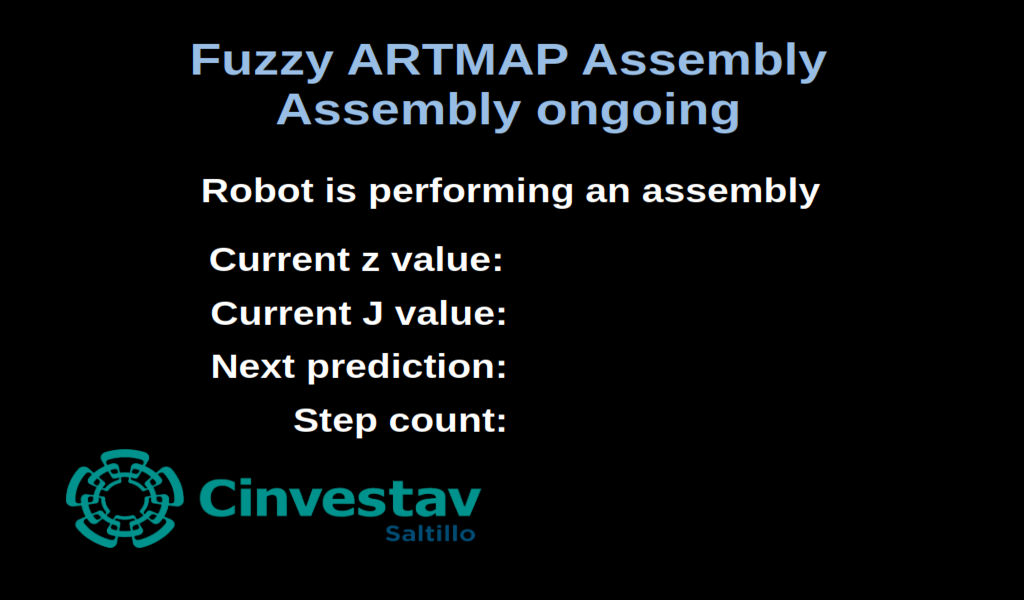
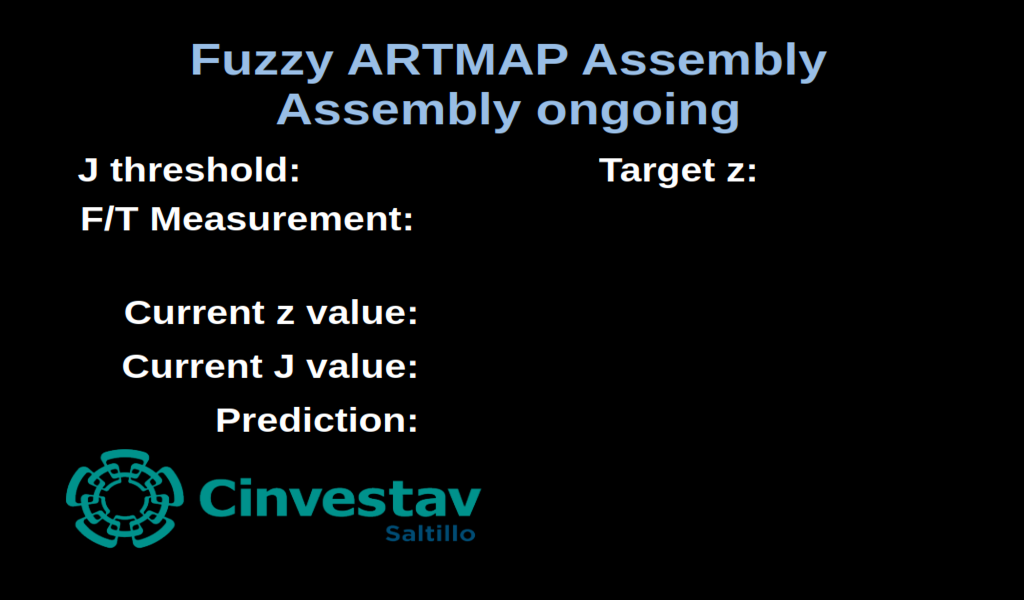
artmap assembly in real time updated to display assembly real time values, cleanup done, ongoing display image updated

diff --git a/perception_modules/tactile/scripts/artmap_assembly_rt.py b/perception_modules/tactile/scripts/artmap_assembly_rt.py
@@ -13,11 +13,16 @@ Example sawyer moves above assembly, and starts moving downward in z by 0.001mm 
 import sys
 import os
 import subprocess
+import atexit
 import rospy
 import rospkg
 import cv2
 import cv_bridge
 from sensor_msgs.msg import Image
+from std_msgs.msg import (
+    Float32,
+    Int32
+)
 import time
 import time
 import math
@@ -39,6 +44,10 @@ from geometry_msgs.msg import (
 from tf.transformations import (
     quaternion_from_euler
 )
+
+
+# List to keep track of all running subprocesses
+all_processes = []
 
 #Global variables for force and torque
 #Need to be global to be updated by call back function in subscriber
@@ -76,7 +85,7 @@ def force_moment_factor(S=0.6):
 def obtain_move_prediction(prediction):
     
     #Prediction movement step in rotation and translation
-    rot_step = 0.0174533*3.0 #0.5 deg
+    rot_step = 0.0174533*4.0 #0.5 deg
     tran_step = 0.01 #1mm
     
     #Z- movement not used
@@ -332,14 +341,26 @@ def send_ik_movement(move_pred,robot,ik_step,move_euler,orientation=False):
     else:
         rospy.logerr("No Joint Angles provided for move_to_joint_positions. Staying put.")
 
+def cleanup_processes():
+    print("Running cleanup function...")
+    for p in all_processes:
+        print("Terminating process %s...", p.pid)
+        p.kill() # Force termination (SIGKILL on Posix)
+        p.wait() # Ensure the process is reaped to avoid zombies # Request a graceful exit (SIGTERM on Posix)
+
+# Register the cleanup function to run on exit
+atexit.register(cleanup_processes)
+
 #Assembly function
 def assembly_cycle(artmap, train_file, robot, head_display, image_pub, train_entry=False, rho=0.9, eps=0.18):
     
+
     #Assembly finished flag
     assembly_success = False
 
     #Desired end effector value when going down
-    zd = 0.04
+    #zd = 0.04
+    zd = 0.050
     
     #Safety z offset
     z_offset = 0.005
@@ -389,13 +410,10 @@ def assembly_cycle(artmap, train_file, robot, head_display, image_pub, train_ent
         rospy.Subscriber("/robot/ati_ft_sensor_topic/", WrenchStamped, obtain_ftdata, queue_size=1)
 
     	#First approach to hole
-        move_confirm = robot.cartesian_approach(move_position=[0.0,0.0,-0.005], joint_speed=0.001 ,linear_speed=0.001, frecuency=100, verbose=True)
+        #move_confirm = robot.cartesian_approach(move_position=[0.0,0.0,-0.005], joint_speed=0.001 ,linear_speed=0.001, frecuency=100, verbose=True)
 
         #Go back flag
         back_flag = False
-
-        #Set slow speed flag
-        set_slow_speed = False
 
         #Set desired speed (m/s)
         robot._limb.set_joint_position_speed(0.003)
@@ -404,6 +422,27 @@ def assembly_cycle(artmap, train_file, robot, head_display, image_pub, train_ent
         move_euler = [0.0,0.0,0.0]
 
         r = rospy.Rate(100)
+
+        #Ongoing topic publishers
+        zd_pub = rospy.Publisher('/robot/artmap_assembly_zd/', Float32, queue_size=1)
+        zd_msg = Float32()
+        zd_msg.data = zd
+
+        eps_pub = rospy.Publisher('/robot/artmap_assembly_epsilon/', Float32, queue_size=1)
+        eps_msg = Float32()
+
+        current_z_pub = rospy.Publisher('/robot/artmap_assembly_zcurrent/', Float32, queue_size=1)
+        current_z_msg = Float32()
+
+        current_j_pub = rospy.Publisher('/robot/artmap_assembly_Jcurrent/', Float32, queue_size=1)
+        current_j_msg = Float32()
+
+        prediction_pub = rospy.Publisher('/robot/artmap_assembly_prediction/', Int32, queue_size=1)
+        prediction_msg = Int32()
+
+        #Start streaming data to head display
+        p03 = subprocess.Popen(["rosrun", "devices_interface", "publish_ongoing_data.py"])
+        all_processes.append(p03)
 
         #Start assembly cycle after going down and being near the hole
         while not rospy.is_shutdown() and back_flag == False:
@@ -416,6 +455,16 @@ def assembly_cycle(artmap, train_file, robot, head_display, image_pub, train_ent
 
             #Extract current z value
             z_current = sawyer.current_endpoint_pose()[0][2]
+
+            #Publish topics for visualization in display
+            eps_msg.data = epsilon
+            current_z_msg.data = z_current
+            current_j_msg.data = J
+
+            eps_pub.publish(eps_msg)
+            current_z_pub.publish(current_z_msg)
+            current_j_pub.publish(current_j_msg)
+            zd_pub.publish(zd_msg)
 
             #First check the max force limit has not been reached
             if J < J_max:
@@ -437,29 +486,10 @@ def assembly_cycle(artmap, train_file, robot, head_display, image_pub, train_ent
                 #If J below the prediction threshold and not yet at target, move down in z axis
                 elif J < epsilon and z_current > zd:
 
-                    #Convert values to string
-                    #z_current_str = str(z_current)
-                    #J_str = str(J)
-                    #pred_str = "Z-"
-                    #steps_str = str(steps)
-
-                    # Add assembly text info
-                    #img_z_value = add_image_text(text_input=z_current_str,base_image=ongoing_img, position=(520, 258), font_scale=0.85, color=(0, 0, 255), thickness=2, font=cv2.FONT_HERSHEY_SIMPLEX)
-                    #img_J_value = add_image_text(text_input=J_str,base_image=img_z_value, position=(520, 313), font_scale=0.85, color=(0, 0, 255), thickness=2, font=cv2.FONT_HERSHEY_SIMPLEX)
-                    #img_next_prediction = add_image_text(text_input=pred_str,base_image=ongoing_img, position=(520, 368), font_scale=0.85, color=(0, 0, 255), thickness=2, font=cv2.FONT_HERSHEY_SIMPLEX)
-                    #img_steps = add_image_text(text_input=steps_str,base_image=img_next_prediction, position=(520, 424), font_scale=0.85, color=(0, 0, 255), thickness=2, font=cv2.FONT_HERSHEY_SIMPLEX)
-
-                    #Convert to ros image topic
-                    #img_msg = cv_bridge.CvBridge().cv2_to_imgmsg(img_next_prediction, encoding="bgr8")
-
-                    #Publish in head image display
-                    #image_pub.publish(img_msg)
-
                     send_ik_movement(move_pred=[0.0, 0.0, -0.01, 0.0, 0.0, 0.0],robot=robot, ik_step = ik_step,move_euler = move_euler)
-
-                    #rospy.loginfo("Moving down in z axis")
-                
-                    #z_down = True
+                    
+                    prediction_msg.data = 100
+                    prediction_pub.publish(prediction_msg)
 
                     if train_entry:
                         #Obtain Force moment factor
@@ -481,7 +511,16 @@ def assembly_cycle(artmap, train_file, robot, head_display, image_pub, train_ent
                             Ia = category_predicted[1][:6].reshape(1,6)
 
                             send_ik_movement(move_pred=[0.0, 0.0, 0.0, 0.0, 0.0, 0.0],robot=robot, ik_step = ik_step,move_euler = move_euler)
+
+                            # Stop head display data streaming
+                            p03.terminate()
+                            time.sleep(1.0)
+
                             back_flag = retrain_artmap(artmap, robot, retrain_img, Ia, J,eps,train_path=art_train_path, new_pattern=False)
+
+                            #restart streaming data to head display
+                            p03 = subprocess.Popen(["rosrun", "devices_interface", "publish_ongoing_data.py"])
+                            time.sleep(3.0)
 
                 #If J above the prediction threshold and not yet at target, use Fuzzy ARTMAP to predict next movement
                 elif J > epsilon and z_current > zd:
@@ -495,47 +534,15 @@ def assembly_cycle(artmap, train_file, robot, head_display, image_pub, train_ent
                     #Split output list
                     prediction = category_predicted[0]
                     Ia = category_predicted[1][:6].reshape(1,6)
-                 
+
                     #If value found within current trained categories proceed to move in predicted direction
                     if prediction != None:
+                        
+                        prediction_msg.data = prediction
+                        prediction_pub.publish(prediction_msg)
 
                         #Obtain movement vector
                         move_pred = obtain_move_prediction(prediction)   
-
-                        #Convert values to string
-                        #z_current_str = str(z_current)
-                        #J_str = str(J)
-                        #pred_str = obtain_move_categories(prediction)
-                        #steps_str = str(steps)
-                        #print(pred_str)
-
-                        # Add assembly text info
-                        #img_z_value = add_image_text(text_input=z_current_str,base_image=ongoing_img, position=(520, 258), font_scale=0.85, color=(0, 0, 255), thickness=2, font=cv2.FONT_HERSHEY_SIMPLEX)
-                        #img_J_value = add_image_text(text_input=J_str,base_image=img_z_value, position=(520, 313), font_scale=0.85, color=(0, 0, 255), thickness=2, font=cv2.FONT_HERSHEY_SIMPLEX)
-                        #img_next_prediction = add_image_text(text_input=pred_str,base_image=ongoing_img, position=(520, 368), font_scale=0.85, color=(0, 0, 255), thickness=2, font=cv2.FONT_HERSHEY_SIMPLEX)
-                        #img_steps = add_image_text(text_input=steps_str,base_image=img_next_prediction, position=(520, 424), font_scale=0.85, color=(0, 0, 255), thickness=2, font=cv2.FONT_HERSHEY_SIMPLEX)
-
-                        #Convert to ros image topic
-                        #img_msg = cv_bridge.CvBridge().cv2_to_imgmsg(img_next_prediction, encoding="bgr8")
-
-                        #Publish in head image display
-                        #image_pub.publish(img_msg)
-
-                        #Check if a up down loop in the z axis exists and retrain fuzzy artmap if desired
-                        #if prediction == 5:
-                        #    z_up = True
-                        #else:
-                        #    z_down = False
-                        #    z_counter = 0
-                            
-                        #if z_down and z_up:
-                        #    z_counter += 1
-                        #    z_down = False
-                        #    z_up = False
-                            
-                        #if z_counter >= z_threshold:
-                        #    back_flag = retrain_artmap(artmap, robot, retrain_img, Ia, J,eps,train_path=art_train_path, new_pattern=False)
-                        #    z_counter = 0
                         
                         #No movement category(0) indicates we are at optimal contact during assembly
                         #However a loop can be induced in which we stay at No movement condition instead of going down
@@ -558,9 +565,19 @@ def assembly_cycle(artmap, train_file, robot, head_display, image_pub, train_ent
                             
                         #If inside a loop with no movement increase epsilon to continue moving
                         else:
+                            
                             if train_entry:
                                 send_ik_movement(move_pred=[0.0, 0.0, 0.0, 0.0, 0.0, 0.0],robot=robot, ik_step = ik_step,move_euler = move_euler)
+                                # Stop head display data streaming
+                                p03.terminate()
+                                time.sleep(1.0)
+
                                 back_flag = retrain_artmap(artmap, robot, retrain_img, Ia, J,eps,train_path=art_train_path, new_pattern=False)
+
+                                #restart streaming data to head display
+                                p03 = subprocess.Popen(["rosrun", "devices_interface", "publish_ongoing_data.py"])
+                                time.sleep(3.0)
+
                             else:
                                 rospy.loginfo("No movement predicted, increasing J threshold")
                                 epsilon += 0.01
@@ -568,7 +585,15 @@ def assembly_cycle(artmap, train_file, robot, head_display, image_pub, train_ent
                     #Now if category was not found within one of the force patterns prompt user to retrain weights
                     else:
                         send_ik_movement(move_pred=[0.0, 0.0, 0.0, 0.0, 0.0, 0.0],robot=robot, ik_step = ik_step,move_euler = move_euler)
+                        # Stop head display data streaming
+                        p03.terminate()
+                        time.sleep(1.0)
+
                         back_flag = retrain_artmap(artmap, robot, retrain_img, Ia, J,eps,train_path=art_train_path, new_pattern=True)
+
+                        #restart streaming data to head display
+                        p03 = subprocess.Popen(["rosrun", "devices_interface", "publish_ongoing_data.py"])
+                        time.sleep(3.0)
                 
                 #If J above epsilon and we are at the desired z value, 
                 elif J > epsilon and z_current <= zd:
@@ -596,10 +621,16 @@ def assembly_cycle(artmap, train_file, robot, head_display, image_pub, train_ent
 
         rospy.signal_shutdown("Finishing testing node")
 
+
+    p03.terminate()
+
     end_time = time.clock()
     execution_time = end_time - start_time
     frecuency = iterations/execution_time
     rospy.loginfo("Prediction Frecuency, %s", frecuency)
+
+    time.sleep(2.0)
+
     return assembly_success, execution_time
 
 if __name__ == '__main__':
@@ -813,9 +844,11 @@ if __name__ == '__main__':
 
             #Start streaming F/T sensor data
             if not ati_open:
-                subprocess.Popen(["rosrun", "devices_interface", "ati_data_publisher.py"])
+                p01 = subprocess.Popen(["rosrun", "devices_interface", "ati_data_publisher.py"])
+                all_processes.append(p01)
                 ati_open = True
 
+            
             """
             MESSAGE
             Robot moving above assembly
@@ -828,7 +861,8 @@ if __name__ == '__main__':
             sawyer.close_gripper()
 
             #Move above assembly (safe position)
-            sawyer.move_to_cartesian_absolute(pos_no=13)
+            #sawyer.move_to_cartesian_absolute(pos_no=13)
+            sawyer.move_to_cartesian_absolute(pos_no=17)
         
             #Wait 1 seconds
             time.sleep(1)
@@ -843,7 +877,8 @@ if __name__ == '__main__':
 
             #Move above assembly (close position)
             #sawyer.move_to_cartesian_absolute(pos_no=14)
-            sawyer.move_to_cartesian_absolute(pos_no=16)
+            #sawyer.move_to_cartesian_absolute(pos_no=16)
+            sawyer.move_to_cartesian_absolute(pos_no=18)
             
             #Green light indicates process ongoing
             if sawyer._is_clicksmart == True:
@@ -859,35 +894,35 @@ if __name__ == '__main__':
             Manual initial positioning must be near a 4 mm error range from hole
             #ToDo add message indicating tolerance for manual position including translation and rotations
             """
-            #Display approach image
-            image_path = package_path + "/share/assembly_images/startassembly.png"
-            headdisplay.display_image(image_path)
+            # #Display approach image
+            # image_path = package_path + "/share/assembly_images/startassembly.png"
+            # headdisplay.display_image(image_path)
 
-            #Initialize button state
-            #Ok for current database
-            ok_button_state = navigator.get_button_state("right_button_ok")
+            # #Initialize button state
+            # #Ok for current database
+            # ok_button_state = navigator.get_button_state("right_button_ok")
 
-            #Release button if pressed
-            while ok_button_state != 0:
-                #Ok for current database
-                ok_button_state = navigator.get_button_state("right_button_ok")
+            # #Release button if pressed
+            # while ok_button_state != 0:
+            #     #Ok for current database
+            #     ok_button_state = navigator.get_button_state("right_button_ok")
 
-                #Display Release button image
-                image_path = package_path + "/share/assembly_images/releasebuttons.png"
-                headdisplay.display_image(image_path)
+            #     #Display Release button image
+            #     image_path = package_path + "/share/assembly_images/releasebuttons.png"
+            #     headdisplay.display_image(image_path)
 
-            #Button signal debounce
-            time.sleep(0.1)
+            # #Button signal debounce
+            # time.sleep(0.1)
 
-            #Display database selection image
-            image_path = package_path + "/share/assembly_images/startassembly.png"
-            headdisplay.display_image(image_path)
+            # #Display database selection image
+            # image_path = package_path + "/share/assembly_images/startassembly.png"
+            # headdisplay.display_image(image_path)
             
-            #Select database to be used
-            #Square restarts knowledge base to primitive
-            #Wheel center(Ok) uses current knowledge base
-            while ok_button_state == 0:
-                ok_button_state = navigator.get_button_state("right_button_ok")
+            # #Select database to be used
+            # #Square restarts knowledge base to primitive
+            # #Wheel center(Ok) uses current knowledge base
+            # while ok_button_state == 0:
+            #     ok_button_state = navigator.get_button_state("right_button_ok")
 
 
             """
@@ -906,7 +941,7 @@ if __name__ == '__main__':
             sawyer.set_speed(max_linear_speed=0.001, max_linear_accel = 0.001, max_rotational_speed = 0.01, max_rotational_accel = 0.01)
 
             #Start assembly cycle
-            assembly_final_state, execution_time = assembly_cycle(artmap=artmap, train_file=train_file,robot=sawyer, head_display=headdisplay, train_entry=train_entry, image_pub=image_pub, rho=0.95, eps=0.12)
+            assembly_final_state, execution_time = assembly_cycle(artmap=artmap, train_file=train_file,robot=sawyer, head_display=headdisplay, train_entry=train_entry, image_pub=image_pub, rho=0.95, eps=0.10)
             
             time.sleep(1.0)
             
